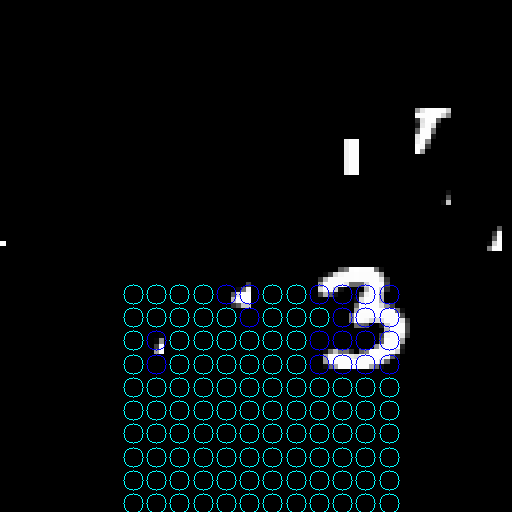
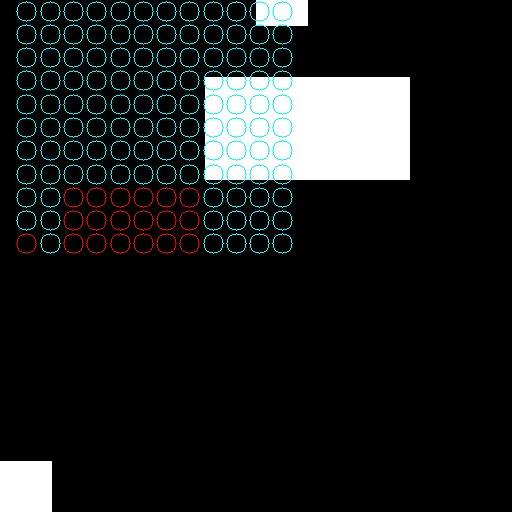
started working on kernel

diff --git a/glimpse.py b/glimpse.py
@@ -7,11 +7,12 @@ import torch.nn as nn
 import cv2
 import numpy as np
 import heapq
+import torch.nn.functional as F
 
 
 class GlimpseModel(nn.Module):
     '''Take in a batch of images, apply (learnable) gaussian kernels, and output batch of sampled tensors'''
-    def __init__(self, image_shape, num_kernels=144, device="cuda:0"):
+    def __init__(self, image_shape, num_kernels=144, device="cpu"):
         super(GlimpseModel, self).__init__()
         
         self.image_shape = image_shape
@@ -48,6 +49,30 @@ class GlimpseModel(nn.Module):
         # self.mu = mu_init.to(self.device)
         self.sigma = nn.Parameter(sigma_init.to(self.device))
         # self.sigma = sigma_init.to(self.device) # Make this learnable
+        
+        self.kernel_len = 11
+        self.kernels = self._create_gaussian_kernels(self.kernel_len)
+        
+        
+    def get_2D_gaussian_kernel(self, len_pixels, sigma_pixels):
+        kernel_1d = torch.signal.windows.gaussian(len_pixels, std=sigma_pixels)
+        kernel_2d = kernel_1d.unsqueeze(1) * kernel_1d.unsqueeze(0)
+        kernel_2d = kernel_2d / kernel_2d.sum()
+        return kernel_2d
+
+    def _create_gaussian_kernels(self, kernel_len):
+        """
+        Precompute Gaussian kernels of size (kernel_size x kernel_size) for each kernel.
+        """
+        kernels = []
+        
+        sigma = 1 #(pixel)
+        
+        for i in range(self.num_kernels):
+            kernel = self.get_2D_gaussian_kernel(kernel_len, sigma)
+            kernels.append(kernel.unsqueeze(0))
+
+        return torch.cat(kernels, dim=0).to(self.device)
         
     
     # Assumes input_range is (-1, 1)
@@ -109,30 +134,89 @@ class GlimpseModel(nn.Module):
     # s_c: centre of the glimple
     # s_z: zoom, we're gonna keep it 1 for now
     def forward(self, imgs, s_c, s_z):
+        '''
+        imgs: (B, 100, 100)
+        '''
+        
         B, H, W = imgs.shape
         device = imgs.device
+        print(1)
         
         # Compute Kernel Center and Sigma (Eqn 2/3 from the paper)
         mu = (s_c.unsqueeze(1) + self.mu)*s_z.unsqueeze(1) # (B, num_kernels, 2) 
         sigma = self.sigma * s_z # (B, num_kernels)        
         # Generate sampling grid
+        print(2)
 
         sigma = sigma.view(B, self.num_kernels, 1, 1)           
         
         # Compute the gaussian kernel
         kernels_x = torch.exp(-0.5 * ((self.grid_x- mu[..., 0].view(B, self.num_kernels, 1, 1)) ** 2) / sigma ** 2)
         kernels_y = torch.exp(-0.5 * ((self.grid_y - mu[..., 1].view(B, self.num_kernels, 1, 1)) ** 2) / sigma ** 2)
+        print(3)
+        
         
         kernels = kernels_x*kernels_y   # (B, num_kernels, H, W)
+        print(4)
+        
 
         # normalize
         kernels /= (kernels.sum(dim=(-2, -1), keepdim=True) + 1e-7)
+        print(5)
+        
         
         # Compute the weighted sum
         output = (imgs.unsqueeze(1) * kernels).sum(dim=(-2, -1)) # (B, num_kernels)
+        print(6)
+        
         
         return output
+    
+    def forward_2(self, imgs, s_c, s_z):
+        '''
+        imgs: (B, H, W) batch of images
+        s_c: (B, 2) center shifts for each image in the batch (for x and y coordinates)
+        s_z: (B,) zoom factor for scaling sigma
+        '''
+        B, H, W = imgs.shape
+        
+        # Adjust kernel centers based on s_c and s_z (zoom factor)
+        mu_normalized = (s_c.unsqueeze(1) + self.mu) * s_z.unsqueeze(1)  # (B, num_kernels, 2) 
+        mu_pixel = ((mu_normalized + 1) * 100/2).round().long()
+        mu_pixel_x = mu_pixel[:, :, 0].clamp(0, 100 - 1)
+        mu_pixel_y = mu_pixel[:, :, 1].clamp(0, 100 - 1)
+        
+        # Adjust sigma based on zoom
+        sigma = self.sigma * s_z.view(-1, 1)  # (B, num_kernels)
+        
+        
+        self._create_gaussian_kernels(10) #TODO: Maybe take in the mu values? How off in terms of pixels right?
+        
+        imgs = imgs.unsqueeze(1)
+        self.kernels = self.kernels.unsqueeze(1)
+        output = F.conv2d(imgs.transpose(),   
+                       self.kernels,
+                       stride=1,
+                       padding=(self.kernel_len-1)//2)
+        
+        B, num_ker, W, H = output.shape
+        
+        res = torch.zeros(B, num_ker)
+        for b in range(B):
+            for ker in range(num_ker):
+                image = output[b, ker]
+                val = image[mu_pixel[b, ker, 0].clamp(0, 100 - 1), mu_pixel[b, ker, 1].clamp(0, 100 - 1)]
+                
+                res[b, ker] = val
+        
+        return res
 
+        print("This is the shape", output.shape)
+
+        # Vectorized indexing to extract values at (mu_x, mu_y)
+        res = output[torch.arange(B).unsqueeze(1), torch.arange(num_ker), mu_pixel_x, mu_pixel_y]
+        
+        return res
 def read_image(file_pth):
     image = cv2.imread(file_pth, cv2.IMREAD_GRAYSCALE)
     if image is None:
@@ -144,30 +228,36 @@ def read_image(file_pth):
 def main():
     U_old = read_image("./dataset/cluttered_mnist/3/11.png").unsqueeze(0)
     image_shape = (100, 100)
-    model = GlimpseModel(image_shape).to("cuda:0")
+    model = GlimpseModel(image_shape).to("cpu")
     
-    U = torch.zeros((1, 100, 100), device="cuda:0")
-    U[:, :, :] = U_old.to("cuda:0")
-    # U[:, 40:60, 40:60] = 1
+    U = torch.zeros((15, 100, 100), device="cpu")
+    # U[:, :, :] = U_old.to("cpu")
+    # U[:, 60:80, 60:80] = 1
+    # U[:, 60:80, 60:80] = 1
     
-    # U[:, 90:100, 0:10] = 1
-    # U[:, 15:35, 40:80] = 1
-    # U[:, 0:5, 50:60] = 1
+    U[:, 90:100, 0:10] = 1
+    U[:, 15:35, 40:80] = 1
+    U[:, 0:5, 50:60] = 1
     
     batch_size = len(U)
     
     
-    s_c = torch.rand((batch_size, 2), device="cuda:0") * 2 -1
-    s_z = torch.ones((batch_size, 1), device="cuda:0")
+    s_c = torch.rand((batch_size, 2), device="cpu") * 2 -1
+    s_z = torch.ones((batch_size, 1), device="cpu")
     
     # s_c[0, 0] = -0.5
     # s_c[0, 1] = 0.5
             
-    sensor_reading = model(U, s_c, s_z)
+    # sensor_reading = model(U, s_c, s_z)
+    # print("Finished first forward model")
+    sensor_reading = model.forward_2(U, s_c, s_z)
+    print(sensor_reading)
+    print("Finished second forward model")
+    
     # print("This is the output", sensor_reading)
     print("Plotting now::")
     for i in range(batch_size):
-        model.plot_image("test{}.png".format(i), U[i], s_c[i], s_z[i], sensor_reading[0])
+        model.plot_image("test{}.png".format(i), U[i], s_c[i], s_z[i], sensor_reading[i])
     
     print("Plotting Finished!")
 
